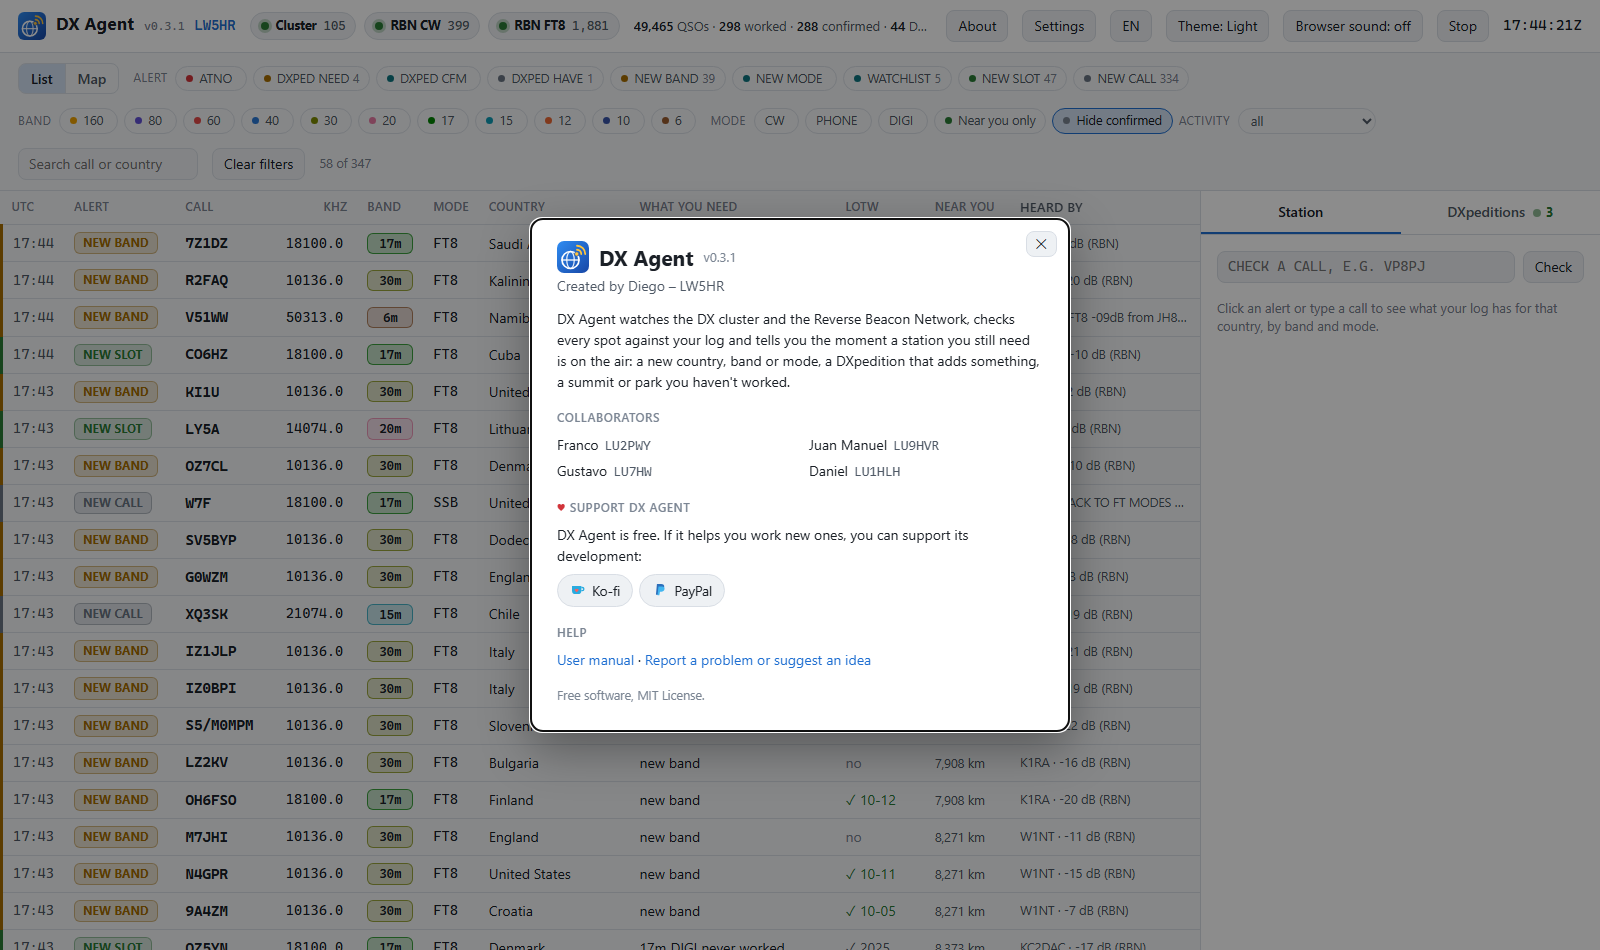
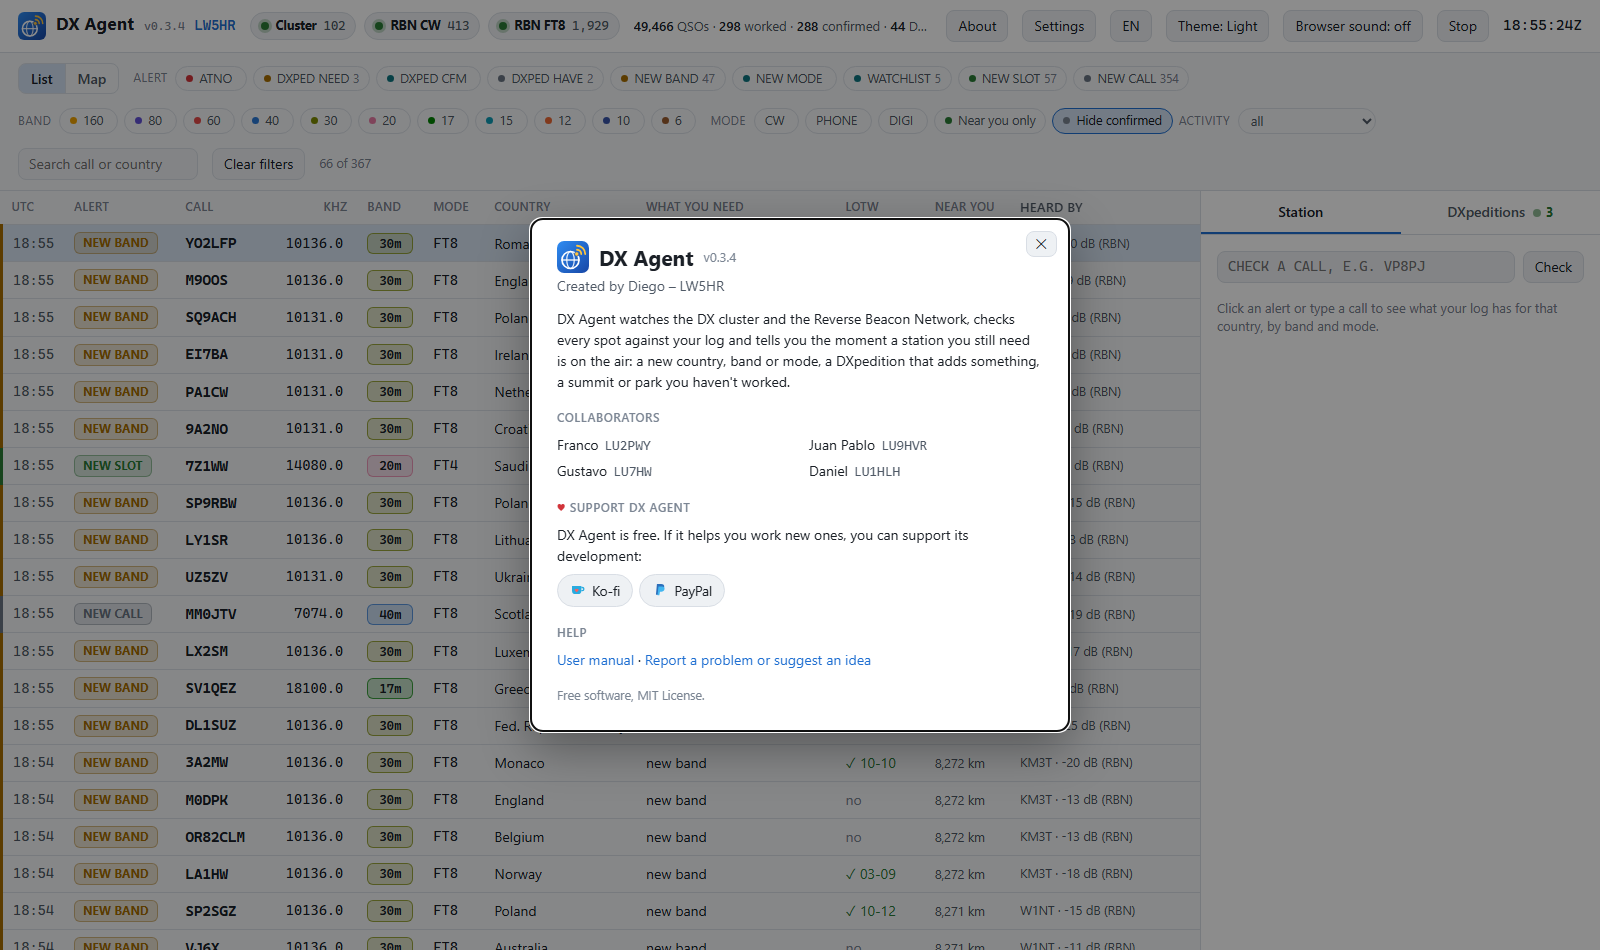
0.3.4: the collaborator is Juan Pablo – LU9HVR

diff --git a/MANUAL.es.md b/MANUAL.es.md
@@ -1,6 +1,6 @@
 # DX Agent — Manual de usuario
 
-*Versión 0.3.3 · Creado por Diego – LW5HR · Colaboradores: Franco – LU2PWY, Juan Manuel – LU9HVR, Gustavo – LU7HW, Daniel – LU1HLH · [English version](MANUAL.en.md)*
+*Versión 0.3.4 · Creado por Diego – LW5HR · Colaboradores: Franco – LU2PWY, Juan Pablo – LU9HVR, Gustavo – LU7HW, Daniel – LU1HLH · [English version](MANUAL.en.md)*
 
 DX Agent vigila el DX cluster y la Reverse Beacon Network (RBN), compara cada estación
 reportada con tu log y te avisa cuando sale al aire una que todavía necesitás: un país nuevo,
@@ -321,7 +321,7 @@ un problema, ese archivo ayuda mucho.
 - **Documentación técnica completa** (todas las opciones del archivo de configuración, cómo
   funciona por dentro): `DOCUMENTACION.md`, dentro del zip.
 - **Apoyá DX Agent:** [Ko-fi](https://ko-fi.com/lw5hr) · [PayPal](https://paypal.me/diegodimunzio1) (también en la ventana **Acerca de** del panel)
-- **Hecho por** Diego – LW5HR, con Franco – LU2PWY, Juan Manuel – LU9HVR, Gustavo – LU7HW, Daniel – LU1HLH.
+- **Hecho por** Diego – LW5HR, con Franco – LU2PWY, Juan Pablo – LU9HVR, Gustavo – LU7HW, Daniel – LU1HLH.
 - **Licencia:** software libre, [MIT](LICENSE): cualquiera puede usarlo, copiarlo y compartirlo.
 
 73, Diego – LW5HR

diff --git a/MANUAL.en.md b/MANUAL.en.md
@@ -1,6 +1,6 @@
 # DX Agent — User manual
 
-*Version 0.3.3 · Made by Diego – LW5HR · Collaborators: Franco – LU2PWY, Juan Manuel – LU9HVR, Gustavo – LU7HW, Daniel – LU1HLH · [Versión en castellano](MANUAL.es.md)*
+*Version 0.3.4 · Made by Diego – LW5HR · Collaborators: Franco – LU2PWY, Juan Pablo – LU9HVR, Gustavo – LU7HW, Daniel – LU1HLH · [Versión en castellano](MANUAL.es.md)*
 
 DX Agent watches the DX cluster and the Reverse Beacon Network (RBN), checks every station
 spotted against your log, and tells you when one you still need is on the air: a new country,
@@ -309,7 +309,7 @@ problem, that file helps a lot.
 - **Full technical documentation** (every setting in the configuration file, how it works
   inside): `DOCUMENTATION.md`, in the zip.
 - **Support DX Agent:** [Ko-fi](https://ko-fi.com/lw5hr) · [PayPal](https://paypal.me/diegodimunzio1) (also in the dashboard's **About** window)
-- **Made by** Diego – LW5HR, with Franco – LU2PWY, Juan Manuel – LU9HVR, Gustavo – LU7HW, Daniel – LU1HLH.
+- **Made by** Diego – LW5HR, with Franco – LU2PWY, Juan Pablo – LU9HVR, Gustavo – LU7HW, Daniel – LU1HLH.
 - **License:** free software, [MIT](LICENSE): anyone can use, copy and share it.
 
 73, Diego – LW5HR

diff --git a/docs/DOCUMENTATION.md b/docs/DOCUMENTATION.md
@@ -1,6 +1,6 @@
 # DX Agent — User Guide
 
-*Created by Diego – LW5HR, with Franco – LU2PWY, Juan Manuel – LU9HVR, Gustavo – LU7HW, Daniel – LU1HLH. MIT License. Support DX Agent: [Ko-fi](https://ko-fi.com/lw5hr) · [PayPal](https://paypal.me/diegodimunzio1).
+*Created by Diego – LW5HR, with Franco – LU2PWY, Juan Pablo – LU9HVR, Gustavo – LU7HW, Daniel – LU1HLH. MIT License. Support DX Agent: [Ko-fi](https://ko-fi.com/lw5hr) · [PayPal](https://paypal.me/diegodimunzio1).
 Versión en español: [DOCUMENTACION.md](DOCUMENTACION.md).*
 
 DX Agent watches the DX cluster and the Reverse Beacon Network (RBN), checks every

diff --git a/docs/DOCUMENTACION.md b/docs/DOCUMENTACION.md
@@ -1,6 +1,6 @@
 # DX Agent — Guía de uso
 
-*Creado por Diego – LW5HR, con Franco – LU2PWY, Juan Manuel – LU9HVR, Gustavo – LU7HW, Daniel – LU1HLH. Licencia MIT. Apoyá DX Agent: [Ko-fi](https://ko-fi.com/lw5hr) · [PayPal](https://paypal.me/diegodimunzio1).
+*Creado por Diego – LW5HR, con Franco – LU2PWY, Juan Pablo – LU9HVR, Gustavo – LU7HW, Daniel – LU1HLH. Licencia MIT. Apoyá DX Agent: [Ko-fi](https://ko-fi.com/lw5hr) · [PayPal](https://paypal.me/diegodimunzio1).
 English version: [DOCUMENTATION.md](DOCUMENTATION.md).*
 
 DX Agent vigila el DX cluster y la Reverse Beacon Network (RBN), compara cada

diff --git a/README.md b/README.md
@@ -60,7 +60,7 @@ hay nada que instalar (trae Python adentro).
 
 ---
 
-Made by / Creado por Diego – LW5HR · Collaborators / Colaboradores: Franco – LU2PWY, Juan Manuel – LU9HVR, Gustavo – LU7HW, Daniel – LU1HLH
+Made by / Creado por Diego – LW5HR · Collaborators / Colaboradores: Franco – LU2PWY, Juan Pablo – LU9HVR, Gustavo – LU7HW, Daniel – LU1HLH
 
 Free software, [MIT License](LICENSE) / Software libre, licencia MIT.
 
